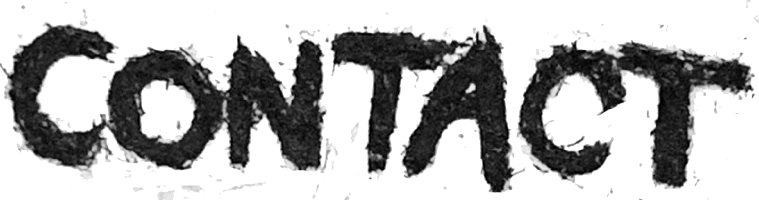
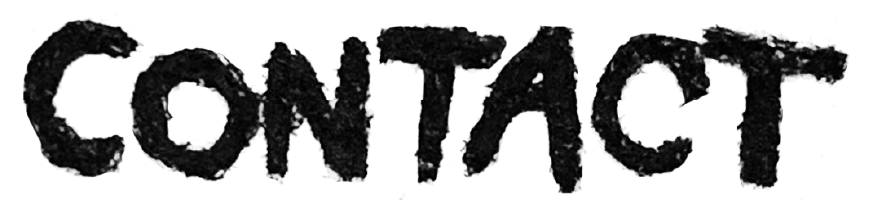
タイトル文字画像をやりなおし60px

diff --git a/index.html b/index.html
@@ -158,12 +158,12 @@
                         <li><img src="images/home-gallry-work2.jpg" alt="" ></li>
                     </ul> -->
                 <figure class="home-gallery-list">
-                        <a class="home-gallery-works" href="images/home-gallry-work1.jpg" title="キャプションを記述">
-                        <img src="images/home-gallry-work1.jpg" alt="サムネイル画像" /></a>
-                        <a class="home-gallery-works" href="images/home-gallry-work2.jpg" title="キャプションを記述">
-                        <img src="images/home-gallry-work2.jpg" alt="サムネイル画像" /></a>
-                        <a class="home-gallery-works" href="images/home-gallry-work3.jpg" title="">
-                        <img src="images/home-gallry-work3.jpg" alt="サムネイル画像" /></a>
+                        <a class="home-gallery-works" href="images/home/home-gallery-w1.jpg" title="カフェにて">
+                        <img src="images/home/home-gallery-w1.jpg" alt="サムネイル画像" /></a>
+                        <a class="home-gallery-works" href="images/home/home-gallery-w2.jpg" title="おまつりのあと">
+                        <img src="images/home/home-gallery-w2.jpg" alt="サムネイル画像" /></a>
+                        <a class="home-gallery-works" href="images/home/home-gallery-w3.jpg" title="さくらさくら">
+                        <img src="images/home/home-gallery-w3.jpg" alt="サムネイル画像" /></a>
                 </figure>
             </div><!-- /.gallery-area-bg -->
             <div class="more-btn">

diff --git a/css/layout.css b/css/layout.css
@@ -64,7 +64,7 @@ p {
   font-family: a-otf-jun-pro, sans-serif;
 }
 .page-title img {
-  height: 100px;
+  height: 60px;
 }
 
 
@@ -275,7 +275,7 @@ p {
 .home-gallery-list {
   display: flex;
 /*  flex-wrap: wrap;*/
-  align-items: center;
+  align-items: top;
   justify-content: center;
   padding: 10px;
 
@@ -310,7 +310,7 @@ p {
 .home-about-bg1 {
   position: absolute;
   right: 0px;
-  top: -50px;
+  top: -100px;
   z-index: -2;
     width: 50%;
 
@@ -384,11 +384,11 @@ p {
   margin: 120px 0 0 0;
   padding-bottom: 50px;
   background-color: #fff;
+  height: 600px;
 }
 
 .home-howto-area .page-title img {
   margin-top: 50px;
-  height: 50px;
 /*  position: absolute;
   bottom:-100px;
   left: 15%;
@@ -445,7 +445,6 @@ p {
 
 .home-contact-top {
   border: 2px solid #85B7D5;
-/*  border-radius: 10px;*/
   border-image: url(../images/line_img.png) 33%/25px 25px repeat;
   background: url(../images/home-suzume3.png);
   background-repeat: no-repeat;
@@ -453,7 +452,7 @@ p {
   background-size:50%;
   background-color: rgba(255,255,255,1);
     width:auto;
-    height:400px;
+    height:500px;
 
 }
 .home-contact-top .page-title {
@@ -462,7 +461,6 @@ p {
 
 .home-contact-top .page-title img {
   width: 200px;
-  height: 50px;
 }
 
 
